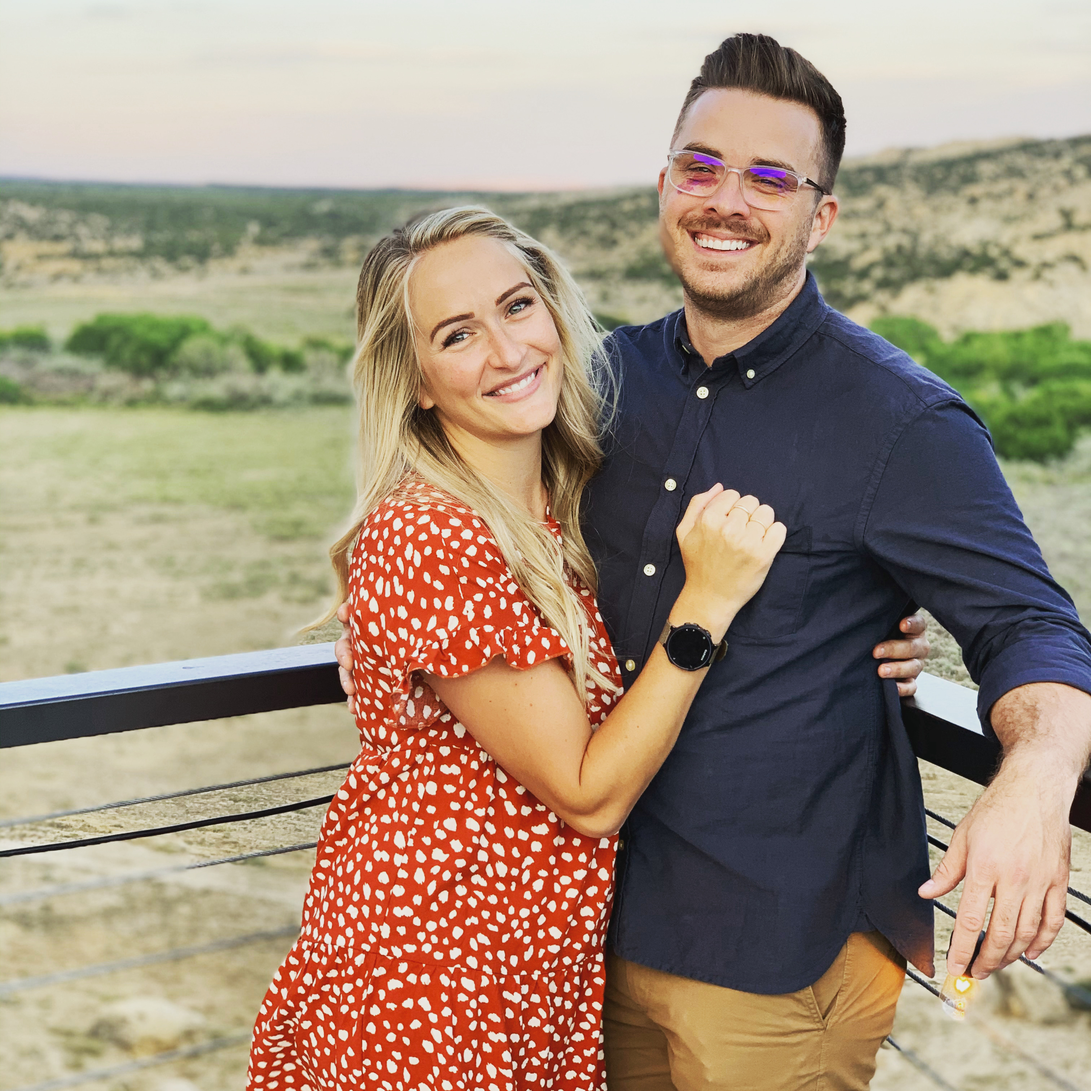
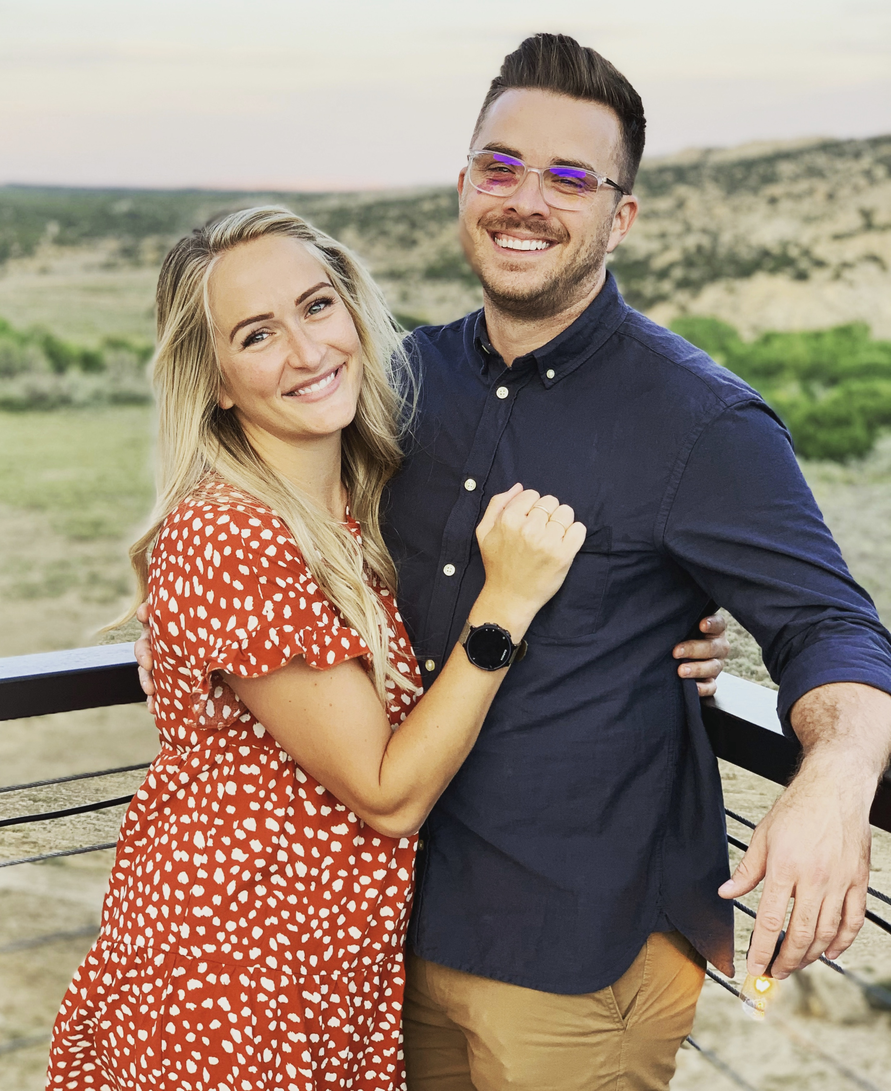
hero image placement

diff --git a/assets/css/style.css b/assets/css/style.css
@@ -1,7 +1,7 @@
 :root {
     --primary-color: #689689;
-    --secondary-color: #DBD8D2;
-    --tertiary-color: #264653;
+    --secondary-color: #fff;
+    --tertiary-color: #000000;
   }
 
   * {
@@ -11,8 +11,8 @@
   }
 
   body {
-    background-color: var(--tertiary-color);
-    font-family:;
+    background-color: var(--secondary-color);
+    font-family: OCR A Std, 'Courier New', Courier, monospace;
   }
 
 /* HEADER / NAV STYLES START */
@@ -31,7 +31,7 @@
   }
 
   header img:hover{
-    background: var(--secondary-color);
+    background: var(--primary-color);
     border-radius: 15px;
   }
 
@@ -47,21 +47,28 @@
   header nav ul li a {
     padding: 10px 15px;
     text-decoration: none;
-    color: var(--secondary-color);
+    color: var(--tertiary-color);
   }
 
   header nav ul li a:hover {
     background: var(--primary-color);
-    color: var(--secondary-color);
+    color: var(--tertiary-color););
     border-radius: 15px
   }
 /* HEADER / NAV STYLES END */
   .jumbotron {
+    background: url(../images/P&K.JPG) no-repeat center fixed;
     background-size: cover;
-    background-position: center;
     background-attachment: fixed;
-    display: flex;
-    justify-content: center;
-    flex-wrap: wrap;
-    align-items: flex-start; 
+    opacity: .70;
+    border-radius: 15px;
+    margin: 10px;
+  }
+
+  .jumbotron div {
+    padding: 200px;
+    font-weight: bolder;
+    font-size: 65px;
+    text-align: center;
+    color: var(--secondary-color);
   }

diff --git a/index.html b/index.html
@@ -33,10 +33,13 @@
 
       <!-- JUMBOTRON STARTS-->
       <section class="jumbotron">
-            <img src="./assets/images/P&K.JPG">
+            <div>
+                <p>
+                    Hi, I'm Kyle. 
+                    <br/>
+                    I design websites and other stuff too.
+                </p>
+            </div>
       </section>
-
-      
-
   </body>
 </html>
